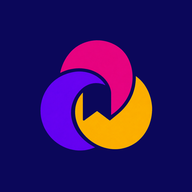
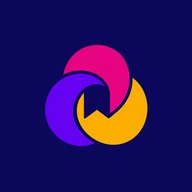
Icône maskable aérée, fiches fluides au scroll, flash Séries corrigé à la racine
Icône PWA : motif recomposé à 53 % du canevas (≈66 % affichés après le
rognage Android, mêmes proportions que l'icône du multitâche) — le fond
bleu nuit est enfin visible sur l'écran d'accueil.

Fiches série/film : la bannière repliable était dans le flux, chaque frame
de repli re-layoutait toute la fiche (saccades au scroll, web). L'en-tête
(bannière + onglets) passe en surimpression hors flux, le contenu défile
dessous avec un padding haut constant ; plage de repli = HERO_MAX−HERO_MIN
pour une géométrie identique au pixel (aucun trou à mi-repli).

Onglet Séries : correctif racine du flash de l'historique — l'ancien
masque à garde-fou 700 ms fuyait quand l'historique arrivait du réseau
après le démasquage (le cas prod). Sur le web, le calage du scroll est
posé en useLayoutEffect, après l'insertion DOM mais AVANT la peinture du
navigateur : aucune frame ne peut montrer l'historique ; la file « À
voir » reste visible pendant le chargement. Même correctif sur À VENIR.

Banc Playwright 7/7 : sonde sans flash (chargement normal + historique
retardé de 1,5 s), fiche dépliée/mi-repliée/repliée aux bonnes cotes,
onglets et fiche film OK.

Claude-Session: https://claude.ai/code/session_01Tj2DvzucZEHfv1rkGksYHY

Changed region(s): [[0.1875, 0.1875, 0.8125, 0.8125]]

diff --git a/mobile/app/show/[id].tsx b/mobile/app/show/[id].tsx
@@ -187,10 +187,17 @@ export default function ShowDetail() {
   const isFollowed = media.userStatus != null;
   const HERO_MAX = 240;
   const HERO_MIN = insets.top + 54;
-  const heroH = scrollY.interpolate({ inputRange: [0, 150], outputRange: [HERO_MAX, HERO_MIN], extrapolate: 'clamp' });
-  const bigOpacity = scrollY.interpolate({ inputRange: [0, 90], outputRange: [1, 0], extrapolate: 'clamp' });
-  const smallOpacity = scrollY.interpolate({ inputRange: [90, 150], outputRange: [0, 1], extrapolate: 'clamp' });
+  // Plage de repli = exactement la hauteur perdue par l'en-tête : le bord bas
+  // de l'en-tête en surimpression suit alors le contenu au pixel près (aucun
+  // écart pendant le repli, cf. structure « overlay » plus bas).
+  const HERO_RANGE = HERO_MAX - HERO_MIN;
+  const heroH = scrollY.interpolate({ inputRange: [0, HERO_RANGE], outputRange: [HERO_MAX, HERO_MIN], extrapolate: 'clamp' });
+  const bigOpacity = scrollY.interpolate({ inputRange: [0, HERO_RANGE * 0.6], outputRange: [1, 0], extrapolate: 'clamp' });
+  const smallOpacity = scrollY.interpolate({ inputRange: [HERO_RANGE * 0.6, HERO_RANGE], outputRange: [0, 1], extrapolate: 'clamp' });
   const onScroll = Animated.event([{ nativeEvent: { contentOffset: { y: scrollY } } }], { useNativeDriver: false });
+  // Hauteur de la barre d'onglets À PROPOS / ÉPISODES (TopTabs, ui.tsx).
+  const TABS_H = 42;
+  const topPad = HERO_MAX + (isMovie ? 0 : TABS_H);
 
   // Barre de progression globale : épisodes diffusés vus / diffusés (hors
   // spéciaux), colorée par STATUT comme dans les bibliothèques du profil :
@@ -220,6 +227,31 @@ export default function ShowDetail() {
 
   return (
     <Pop style={{ backgroundColor: COLORS.white }}>
+      {/* Contenu EN FLUX : il défile sous l'en-tête en surimpression (padding
+          haut constant = place de l'en-tête déployé + onglets). */}
+      {isMovie ? (
+        <MovieBody
+          media={media}
+          detail={detail.data}
+          mediaId={String(id)}
+          onToggle={() => markMovie.mutate(media.userStatus !== 'completed')}
+          onScroll={onScroll}
+          topPad={topPad}
+        />
+      ) : (
+        <FadeSwitch trigger={tab}>
+          {tab === 'À PROPOS' ? (
+            <AboutTab media={media} detail={detail.data} mediaId={String(id)} interest={interest} setInterest={setInterest} onScroll={onScroll} topPad={topPad} />
+          ) : (
+            <EpisodesTab showId={String(id)} title={media.title} posterPath={media.posterPath} onChange={refresh} onScroll={onScroll} topPad={topPad} />
+          )}
+        </FadeSwitch>
+      )}
+
+      {/* En-tête en SURIMPRESSION (hors flux) : sa hauteur animée ne re-layoute
+          que lui-même — auparavant l'en-tête était dans le flux et chaque frame
+          de repli re-layoutait TOUTE la fiche (saccades au défilement, web). */}
+      <View style={styles.headerOverlay}>
       <Animated.View style={[styles.hero, { height: heroH }]}>
         {(() => {
           const heroUri = tmdbImage(media.backdropPath, 'w780') ?? tmdbImage(media.posterPath, 'w500');
@@ -264,28 +296,9 @@ export default function ShowDetail() {
           </View>
         ) : null}
       </Animated.View>
-
-      {isMovie ? (
-        <MovieBody
-          media={media}
-          detail={detail.data}
-          mediaId={String(id)}
-          onToggle={() => markMovie.mutate(media.userStatus !== 'completed')}
-          onScroll={onScroll}
-        />
-      ) : (
-        <>
-          {/* Comme TV Time : deux onglets, les commentaires vivent au bas de « À propos ». */}
-          <TopTabs tabs={['À PROPOS', 'ÉPISODES']} active={tab} onChange={setTab} />
-          <FadeSwitch trigger={tab}>
-            {tab === 'À PROPOS' ? (
-              <AboutTab media={media} detail={detail.data} mediaId={String(id)} interest={interest} setInterest={setInterest} onScroll={onScroll} />
-            ) : (
-              <EpisodesTab showId={String(id)} title={media.title} posterPath={media.posterPath} onChange={refresh} onScroll={onScroll} />
-            )}
-          </FadeSwitch>
-        </>
-      )}
+      {/* Comme TV Time : deux onglets, les commentaires vivent au bas de « À propos ». */}
+      {!isMovie ? <TopTabs tabs={['À PROPOS', 'ÉPISODES']} active={tab} onChange={setTab} /> : null}
+      </View>
 
       {/* Barre du bas façon TV Time : + AJOUTER, puis ✓ AJOUTÉE ! pendant 2 s. */}
       {!isFollowed && !justAdded && !toast ? (
@@ -922,9 +935,9 @@ function yearRange(media: MediaDto, endYear?: number | null) {
 // Onglet « À propos » — ordre des sections calqué sur la fiche TV Time :
 // où regarder, question d'intérêt, similaire à, informations (méta + étoiles +
 // synopsis + rangées), distribution, également regardé, notes, commentaires.
-function AboutTab({ media, detail, mediaId, interest, setInterest, onScroll }: any) {
+function AboutTab({ media, detail, mediaId, interest, setInterest, onScroll, topPad }: any) {
   return (
-    <ScrollView onScroll={onScroll} scrollEventThrottle={16} contentContainerStyle={{ paddingBottom: 90 }}>
+    <ScrollView onScroll={onScroll} scrollEventThrottle={16} contentContainerStyle={{ paddingTop: topPad, paddingBottom: 90 }}>
       <WhereToWatch providers={detail.providers ?? []} />
 
       <View style={styles.section}>
@@ -962,10 +975,10 @@ function AboutTab({ media, detail, mediaId, interest, setInterest, onScroll }: a
   );
 }
 
-function MovieBody({ media, detail, mediaId, onToggle, onScroll }: any) {
+function MovieBody({ media, detail, mediaId, onToggle, onScroll, topPad }: any) {
   const seen = media.userStatus === 'completed';
   return (
-    <ScrollView onScroll={onScroll} scrollEventThrottle={16} contentContainerStyle={{ paddingBottom: 90 }}>
+    <ScrollView onScroll={onScroll} scrollEventThrottle={16} contentContainerStyle={{ paddingTop: topPad, paddingBottom: 90 }}>
       <View style={[styles.section, { flexDirection: 'row', justifyContent: 'space-between', alignItems: 'center' }]}>
         <View style={{ flexDirection: 'row', alignItems: 'center', gap: 8 }}>
           <Feather name="eye" size={18} color={COLORS.black} />
@@ -1013,7 +1026,7 @@ function EpThumb({ stillPath, fallback }: { stillPath?: string | null; fallback?
   );
 }
 
-function EpisodesTab({ showId, title, posterPath, onChange, onScroll }: { showId: string; title: string; posterPath?: string | null; onChange: () => void; onScroll?: any }) {
+function EpisodesTab({ showId, title, posterPath, onChange, onScroll, topPad }: { showId: string; title: string; posterPath?: string | null; onChange: () => void; onScroll?: any; topPad?: number }) {
   const qc = useQueryClient();
   const [open, setOpen] = useState<Record<number, boolean>>({});
   // Pop-up « Cocher aussi les épisodes précédents ? » : proposée quand on
@@ -1153,9 +1166,10 @@ function EpisodesTab({ showId, title, posterPath, onChange, onScroll }: { showId
     onSettled: refresh,
   });
 
-  if (isLoading) return <Loading />;
-  if (!data) return <LoadError onRetry={refetch} busy={isRefetching} />;
-  if (data.seasons.length === 0) return <EmptyState title="Aucun épisode" />;
+  // Les états intermédiaires descendent sous l'en-tête en surimpression.
+  if (isLoading) return <View style={{ paddingTop: topPad }}><Loading /></View>;
+  if (!data) return <View style={{ paddingTop: topPad }}><LoadError onRetry={refetch} busy={isRefetching} /></View>;
+  if (data.seasons.length === 0) return <View style={{ paddingTop: topPad }}><EmptyState title="Aucun épisode" /></View>;
 
   // Épisodes spéciaux (saison 0) toujours en bas de la liste (façon TV Time).
   const isSpecial = (s: SeasonData) => s.seasonNumber === 0;
@@ -1181,7 +1195,7 @@ function EpisodesTab({ showId, title, posterPath, onChange, onScroll }: { showId
     <View style={{ flex: 1 }}>
     <ScrollView
       style={{ backgroundColor: COLORS.pageMuted }}
-      contentContainerStyle={{ paddingBottom: 40 }}
+      contentContainerStyle={{ paddingTop: topPad, paddingBottom: 40 }}
       onScroll={onScroll}
       scrollEventThrottle={16}
     >
@@ -1334,6 +1348,9 @@ function EpisodesTab({ showId, title, posterPath, onChange, onScroll }: { showId
 }
 
 const styles = StyleSheet.create({
+  // En-tête (bannière + onglets) en surimpression : hors flux, sa hauteur
+  // animée ne re-layoute pas le contenu qui défile dessous.
+  headerOverlay: { position: 'absolute', top: 0, left: 0, right: 0, zIndex: 20, backgroundColor: COLORS.white },
   hero: { height: 240, backgroundColor: '#1a1a22', justifyContent: 'flex-end', overflow: 'hidden' },
   heroShade: { ...StyleSheet.absoluteFillObject, backgroundColor: 'rgba(0,0,0,0.35)' },
   addBar: { position: 'absolute', left: 0, right: 0, bottom: 0, backgroundColor: COLORS.yellow, paddingTop: 18, alignItems: 'center' },

diff --git a/mobile/app/(tabs)/index.tsx b/mobile/app/(tabs)/index.tsx
@@ -1,5 +1,5 @@
-import React, { useState, useRef, useEffect } from 'react';
-import { View, Text, ScrollView, StyleSheet, Pressable, Image, ActivityIndicator, RefreshControl } from 'react-native';
+import React, { useState, useRef, useEffect, useLayoutEffect } from 'react';
+import { View, Text, ScrollView, StyleSheet, Pressable, Image, ActivityIndicator, RefreshControl, Platform } from 'react-native';
 import { Feather } from '@expo/vector-icons';
 import { useRouter } from 'expo-router';
 import { useSafeAreaInsets } from 'react-native-safe-area-context';
@@ -111,16 +111,32 @@ function QueueView() {
   const { refreshing, onRefresh } = usePullRefresh([refetch, history.refetch]);
 
   // Anti-flash : l'historique est rendu AU-DESSUS de « À voir » puis le scroll
-  // se cale en dessous (onLayout) — entre les deux, l'utilisateur voyait
-  // l'historique une fraction de seconde. On masque la liste jusqu'au calage
-  // (pas d'historique → rien à caler, on affiche directement).
+  // se cale en dessous — entre les deux, l'utilisateur voyait l'historique une
+  // fraction de seconde (persistait en prod : l'historique peut arriver du
+  // réseau APRÈS le premier rendu, l'ancien garde-fou 700 ms avait déjà
+  // démasqué). Correctif racine, web : useLayoutEffect tourne APRÈS l'insertion
+  // de l'historique dans le DOM mais AVANT la peinture du navigateur → le
+  // scrollTop est posé avant qu'aucune frame ne montre l'historique, quel que
+  // soit le moment où il arrive. Natif : onLayout + masque (comme avant).
   const [settled, setSettled] = useState(false);
+  const historyWrapRef = useRef<View | null>(null);
   const historyCount = history.data?.items?.length ?? 0;
+  useLayoutEffect(() => {
+    if (Platform.OS !== 'web' || didInitialScroll.current) return;
+    const node = historyWrapRef.current as unknown as HTMLElement | null;
+    const scroller = (scrollRef.current as unknown as { getScrollableNode?: () => HTMLElement } | null)?.getScrollableNode?.();
+    if (node && node.offsetHeight > 0) {
+      didInitialScroll.current = true;
+      if (scroller) scroller.scrollTop = node.offsetHeight;
+      else scrollRef.current?.scrollTo({ y: node.offsetHeight, animated: false });
+      setSettled(true); // flush synchrone avant la peinture (React 18)
+    }
+  }); // sans dépendances : rejoue à chaque commit tant que le calage n'est pas fait
   useEffect(() => {
     if (settled) return;
     if ((history.isSuccess && historyCount === 0) || history.isError) setSettled(true);
-    // Ceinture et bretelles : jamais plus de 700 ms masqué, quoi qu'il arrive.
-    const t = setTimeout(() => setSettled(true), 700);
+    // Ceinture et bretelles (surtout natif) : jamais masqué plus de 2,5 s.
+    const t = setTimeout(() => setSettled(true), 2500);
     return () => clearTimeout(t);
   }, [settled, history.isSuccess, history.isError, historyCount]);
 
@@ -144,7 +160,9 @@ function QueueView() {
     <View style={{ flex: 1 }}>
     <ScrollView
       ref={scrollRef}
-      style={{ opacity: settled ? 1 : 0 }}
+      // Masqué SEULEMENT quand un historique est rendu sans être encore calé :
+      // pendant son chargement, la file « À voir » s'affiche normalement.
+      style={{ opacity: settled || historyItems.length === 0 ? 1 : 0 }}
       contentContainerStyle={{ paddingBottom: 16 }}
       onScroll={onListScroll}
       scrollEventThrottle={16}
@@ -152,6 +170,7 @@ function QueueView() {
     >
       {historyItems.length > 0 ? (
         <View
+          ref={historyWrapRef}
           onLayout={(e) => {
             registerSection('Historique de visionnage')(e);
             // Une fois l'historique mesuré, on cale le scroll juste en dessous
@@ -236,14 +255,26 @@ function UpcomingView() {
       }>('/api/shows/upcoming'),
   });
   const { refreshing, onRefresh } = usePullRefresh([refetch]);
-  // Anti-flash (même mécanique que « À voir ») : liste masquée jusqu'au
-  // calage du scroll sous l'historique des sorties passées.
+  // Anti-flash (même mécanique que « À voir ») : web = scrollTop posé avant
+  // la peinture (useLayoutEffect), natif = onLayout + masque.
   const [settled, setSettled] = useState(false);
+  const pastWrapRef = useRef<View | null>(null);
   const pastCount = data?.past?.length ?? 0;
+  useLayoutEffect(() => {
+    if (Platform.OS !== 'web' || didInitialScroll.current) return;
+    const node = pastWrapRef.current as unknown as HTMLElement | null;
+    const scroller = (scrollRef.current as unknown as { getScrollableNode?: () => HTMLElement } | null)?.getScrollableNode?.();
+    if (node && node.offsetHeight > 0) {
+      didInitialScroll.current = true;
+      if (scroller) scroller.scrollTop = node.offsetHeight;
+      else scrollRef.current?.scrollTo({ y: node.offsetHeight, animated: false });
+      setSettled(true);
+    }
+  });
   useEffect(() => {
     if (settled) return;
     if (data && pastCount === 0) setSettled(true);
-    const t = setTimeout(() => setSettled(true), 700);
+    const t = setTimeout(() => setSettled(true), 2500);
     return () => clearTimeout(t);
   }, [settled, data, pastCount]);
   if (isLoading) return <QueueSkeleton />;
@@ -255,12 +286,13 @@ function UpcomingView() {
   return (
     <ScrollView
       ref={scrollRef}
-      style={{ opacity: settled ? 1 : 0 }}
+      style={{ opacity: settled || pastGroups.length === 0 ? 1 : 0 }}
       contentContainerStyle={{ paddingBottom: 16 }}
       refreshControl={<RefreshControl refreshing={refreshing} onRefresh={onRefresh} tintColor={COLORS.yellow} colors={[COLORS.yellow]} />}
     >
       {pastGroups.length > 0 ? (
         <View
+          ref={pastWrapRef}
           onLayout={(e) => {
             const h = e.nativeEvent.layout.height;
             if (!didInitialScroll.current && h > 0) {

diff --git a/docs/AVANCEMENT.md b/docs/AVANCEMENT.md
@@ -6,7 +6,7 @@
 > 2. ajouter une entrée datée en tête du « Journal des modifications » (date, auteur, résumé) ;
 > 3. déplacer les éléments terminés de « Prochaines étapes » vers le journal.
 
-Dernière mise à jour : **2026-07-17** (Claude) — Renommage complet en **PlotTime** + icône PWA maskable (Étienne), fiche jeu : deux notes /100, interrupteur « Je possède »
+Dernière mise à jour : **2026-07-17** (Claude) — Icône maskable aérée (fond bleu visible comme au multitâche), fiches série/film fluides au défilement (en-tête en surimpression), correctif racine du flash de l'historique sur l'onglet Séries
 
 ---
 
@@ -79,6 +79,31 @@ app mobile **React Native + Expo** (`mobile/`, npm) + serveur **Fastify + Prisma
 6. Publication native optionnelle (EAS Build APK, puis stores).
 
 ## Journal des modifications
+
+### 2026-07-17 — Claude : icône maskable aérée, fiches fluides, flash Séries (correctif racine)
+- **Icône PWA (écran d'accueil)** : le motif était encore trop serré — les
+  maskable sont recomposées avec le motif à 53 % du canevas, soit ~66 %
+  AFFICHÉS après le rognage Android (zone sûre 80 %) : mêmes proportions que
+  l'icône du multitâche (motif 66 %), fond bleu nuit bien visible. Recréer le
+  raccourci après redéploiement.
+- **Fiches série/film : défilement fluide.** La bannière repliable était DANS
+  le flux : chaque frame de repli (hauteur animée, non nativisable) re-layoutait
+  TOUTE la fiche — saccades au scroll sur la web app. L'en-tête (bannière +
+  onglets) passe en SURIMPRESSION (hors flux : son animation ne re-layoute que
+  lui) et le contenu défile dessous avec un padding haut constant. Géométrie
+  identique au pixel : la plage de repli = HERO_MAX − HERO_MIN, le bord bas de
+  l'en-tête suit exactement le contenu (vérifié à mi-repli, aucun trou).
+- **Onglet Séries : flash de l'historique — correctif racine.** Le premier
+  correctif (masque + garde-fou 700 ms) fuyait en prod : l'historique peut
+  arriver du réseau APRÈS le démasquage → flash. Désormais, sur le web, le
+  calage du scroll est posé dans un `useLayoutEffect` (après l'insertion DOM,
+  AVANT la peinture du navigateur) : aucune frame ne peut montrer l'historique,
+  quel que soit le moment où il arrive ; pendant son chargement, la file
+  « À voir » reste visible (plus d'écran masqué). Natif : onLayout + masque
+  (garde-fou 2,5 s). Même correctif sur « À VENIR ».
+- Banc Playwright 7/7 : sonde d'échantillonnage sans flash au chargement
+  normal ET avec l'historique retardé de 1,5 s (le cas prod), fiche dépliée/
+  mi-repliée/repliée aux bonnes cotes, onglets et fiche film fonctionnels.
 
 ### 2026-07-17 — Claude : renommage PlotTime + icône PWA « maskable »
 - **L'application s'appelle désormais PlotTime** (ex-SerieTime). Renommé